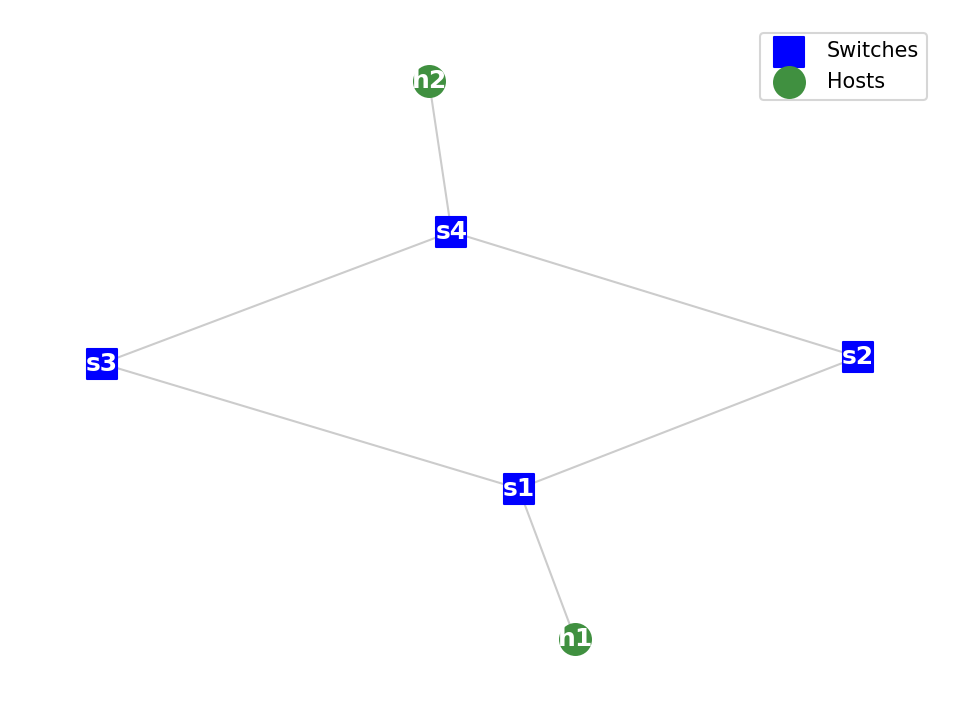
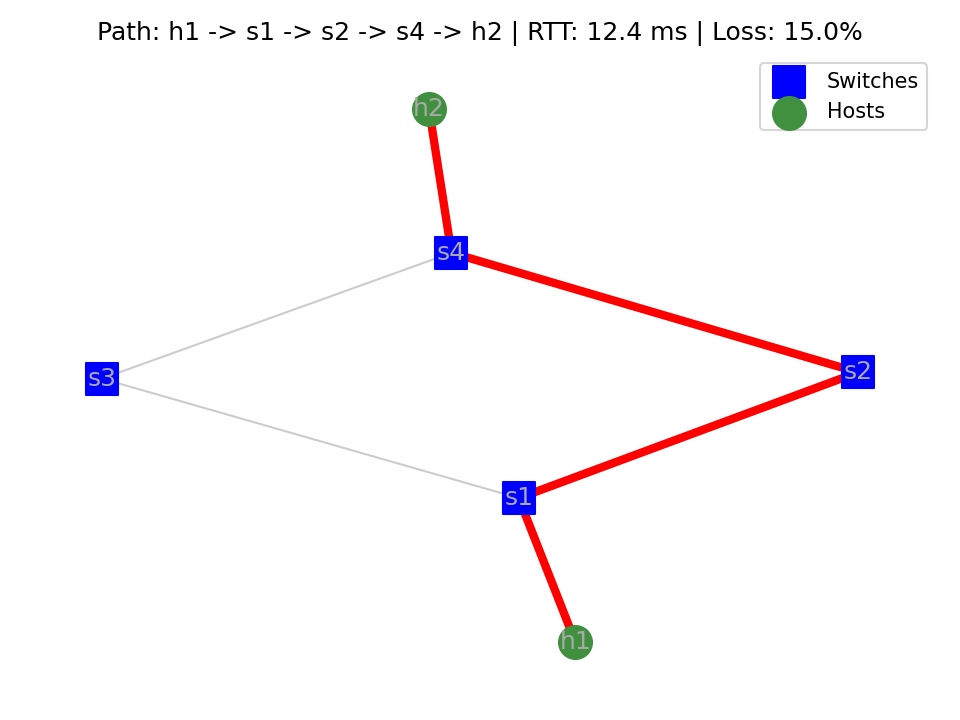
can show alternate paths, added documentation

diff --git a/graph_builder.py b/graph_builder.py
@@ -2,25 +2,19 @@ import networkx as nx
 import json
 import matplotlib.pyplot as plt
 
-#hosts, links and network devices returned by ryu rest api
-
-hosts = {}
-links = {} 
-switches = {}
-
-probe_result = {}
-
-
+#create networkx graph using ryu api data
 def generate_graph(hosts, switches, links):
     G = nx.Graph()
 
     for sw in switches:
-        sw_name = f"s{int(sw['dpid'], 16)}"
+        sw_name = f"s{int(sw['dpid'], 16)}" #convert base 16 string to human readable (0000000000000001 becomes s1)
         G.add_node(sw_name, node_type="switch", dpid=sw["dpid"])
 
     for host in hosts:
-        h_name = f"h{int(host['mac'].split(':')[-1], 16)}"
+        h_name = f"h{int(host['mac'].split(':')[-1], 16)}" #last section of MAC address corresponds to host in Mininet 
+                                                            #(00:00:00:00:00:01 corresponds to h1)
         sw_name = f"s{int(host['port']['dpid'], 16)}"
+
         G.add_node(h_name, node_type="host", ip=host["ipv4"][0])
         G.add_edge(h_name, sw_name, port=int(host["port"]["port_no"], 16))
 
@@ -31,27 +25,56 @@ def generate_graph(hosts, switches, links):
 
     return G
 
-def draw_graph(G, probe_result, filename, source=None, target=None):
+#draw the created graph using matplotlib, if source and taraget are specified, highlight a path from source to target
+#show possible link outages, suggest alternate paths in merged output if source and target are specified
+def draw_graph(G, probe_result, filename):
+    #create graph layout
     pos = nx.spring_layout(G, seed=67)
 
+    #separate switches and hosts from networkx graph
     switches = [n for n, attr in G.nodes(data=True) if attr.get("node_type") == "switch"]
     hosts = [n for n, attr in G.nodes(data=True) if attr.get("node_type") == "host"]
 
-    nx.draw_networkx_nodes(G, pos, nodelist=switches, node_color="#0000ff", node_shape="s", node_size=220, label="Switches")
-    nx.draw_networkx_nodes(G, pos, nodelist=hosts, node_color="#409040", node_shape="o", node_size=220, label="Hosts")
+    #add elements to graph
+    nx.draw_networkx_nodes(G, pos, nodelist=switches, node_color="#0000ff", node_shape="s", node_size=250, label="Switches")
+    nx.draw_networkx_nodes(G, pos, nodelist=hosts, node_color="#409040", node_shape="o", node_size=250, label="Hosts")
     nx.draw_networkx_edges(G, pos, edge_color="#cccccc", width=1)
-    nx.draw_networkx_labels(G, pos, font_weight="bold", font_color="white")
+    nx.draw_networkx_labels(G, pos,font_color=(0.663, 0.663, 0.663))
 
-    if source is not None and target is not None:
-        active_path = nx.shortest_path(G, source="h1", target="h2")
-        path_edges = list(zip(active_path[:-1], active_path[1:]))
+    #path finding utility built into networkx, in this case, uses dijkstra's algorithm to find shortest path between source and target
+    active_path = nx.shortest_path(G, source=probe_result["src"], target=probe_result["dst"])
 
-        path_color = "#ff0000" if probe_result["loss_pct"] > 10.0 else "#2ECC71"
-        nx.draw_networkx_edges(G, pos, edgelist=path_edges, edge_color=path_color, width=4)
+    #create list of edges by zipping everything except the last node, and everything except the first node
+    #if active path is ["h1", "s1", "s2", "s4", "h2"], zip ["h1", "s1", "s2", "s4"] and ["s1", "s2", "s4", "h2"] to get
+    #[("h1", "s1"), ("s1", "s2"), ("s2", "s4"), ("s4", "h2")], which are the path edges
+    path_edges = list(zip(active_path[:-1], active_path[1:]))
 
-        plt.title(f"Path: {' -> '.join(active_path)} | RTT: {probe_result['rtt_avg_ms']} ms | Loss: {probe_result['loss_pct']}%")
+    #ignore hosts to provide path with only switches, so if path is ["h1", "s1", "s2", "s4", "h2"], 
+    #switch_path is ["s1", "s2", "s4"]
+    all_switch_paths = [p[1:-1] for p in nx.all_simple_paths(G, source=probe_result["src"], target=probe_result["dst"])]
+
+    #drawing links
+    path_color = "#ff0000" if probe_result["loss_pct"] > 10.0 else "#2ECC71"
+    nx.draw_networkx_edges(G, pos, edgelist=path_edges, edge_color=path_color, width=4)
+
+    #draw path details
+    plt.title(f"Path: {' -> '.join(active_path)} | RTT: {probe_result['rtt_avg_ms']} ms | Loss: {probe_result['loss_pct']}%")
 
     plt.legend()
     plt.axis("off")
     plt.tight_layout()
     plt.savefig(filename, dpi=150)
+
+    
+
+    #provide alternate paths to probed output
+    merged_output = {
+        "src": probe_result["src"],
+        "dst": probe_result["dst"],
+        "path": active_path[1:-1],
+        "alternative_paths": [p for p in all_switch_paths if p != active_path[1:-1]],
+        "rtt_avg_ms": probe_result["rtt_avg_ms"],
+        "loss_pct": probe_result["loss_pct"],
+    }
+
+    print(json.dumps(merged_output, indent=2))

diff --git a/graph_test.py b/graph_test.py
@@ -1,5 +1,7 @@
 import graph_builder
 
+#hosts, switches and links will be provided by ryu api
+
 switches = [
     {
         "dpid": "0000000000000001",
@@ -67,6 +69,7 @@ hosts = [
     },
 ]
 
+#probe result from diagnostic
 probe_result = {
     "src": "h1",
     "dst": "h2",
